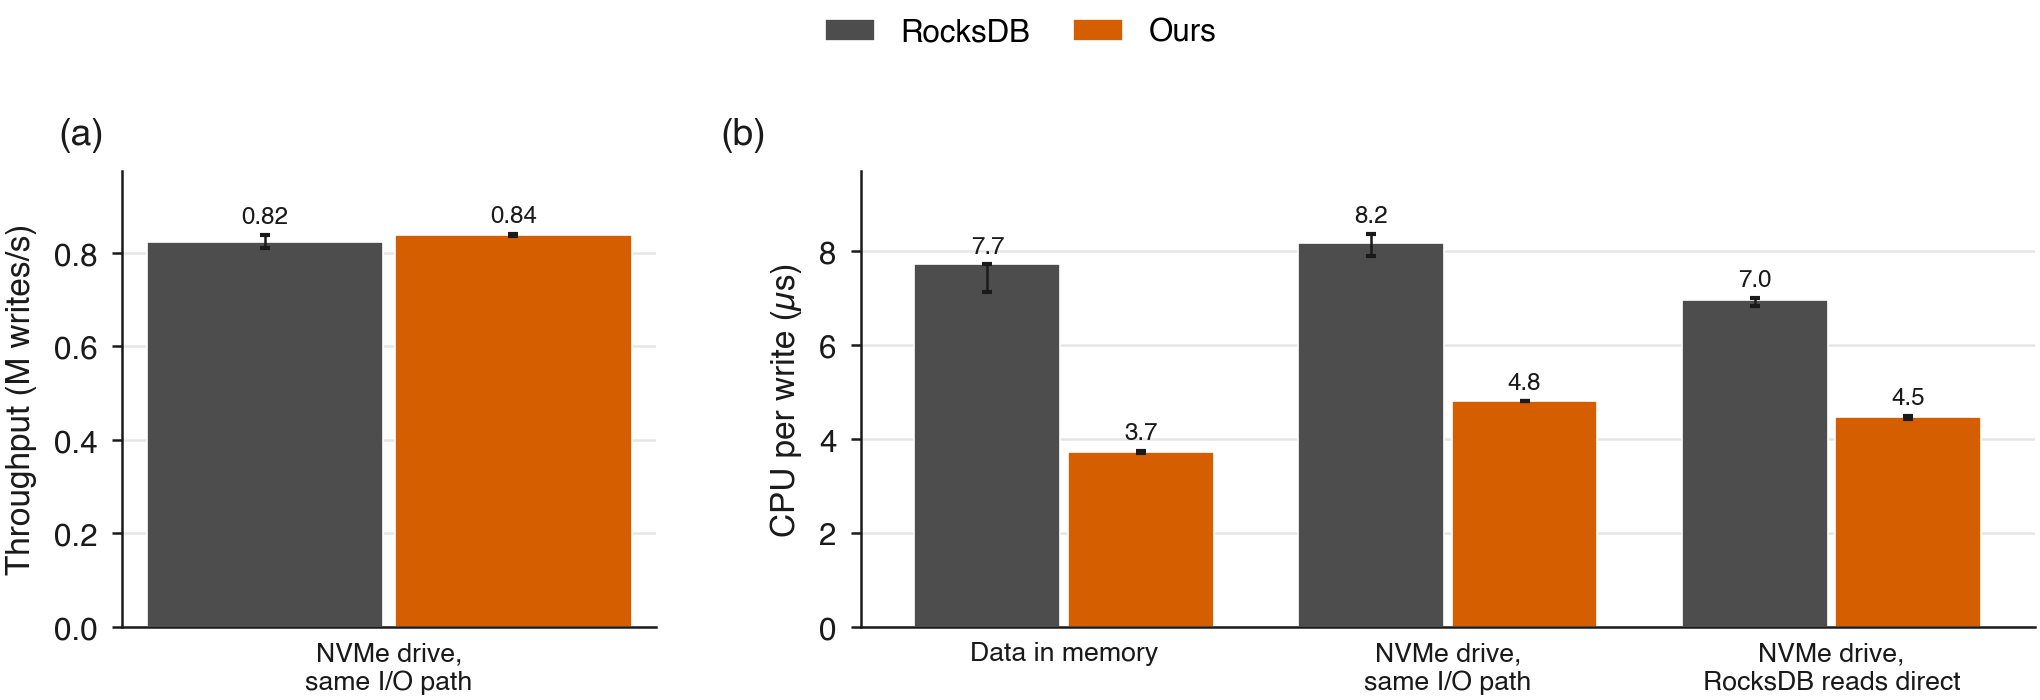
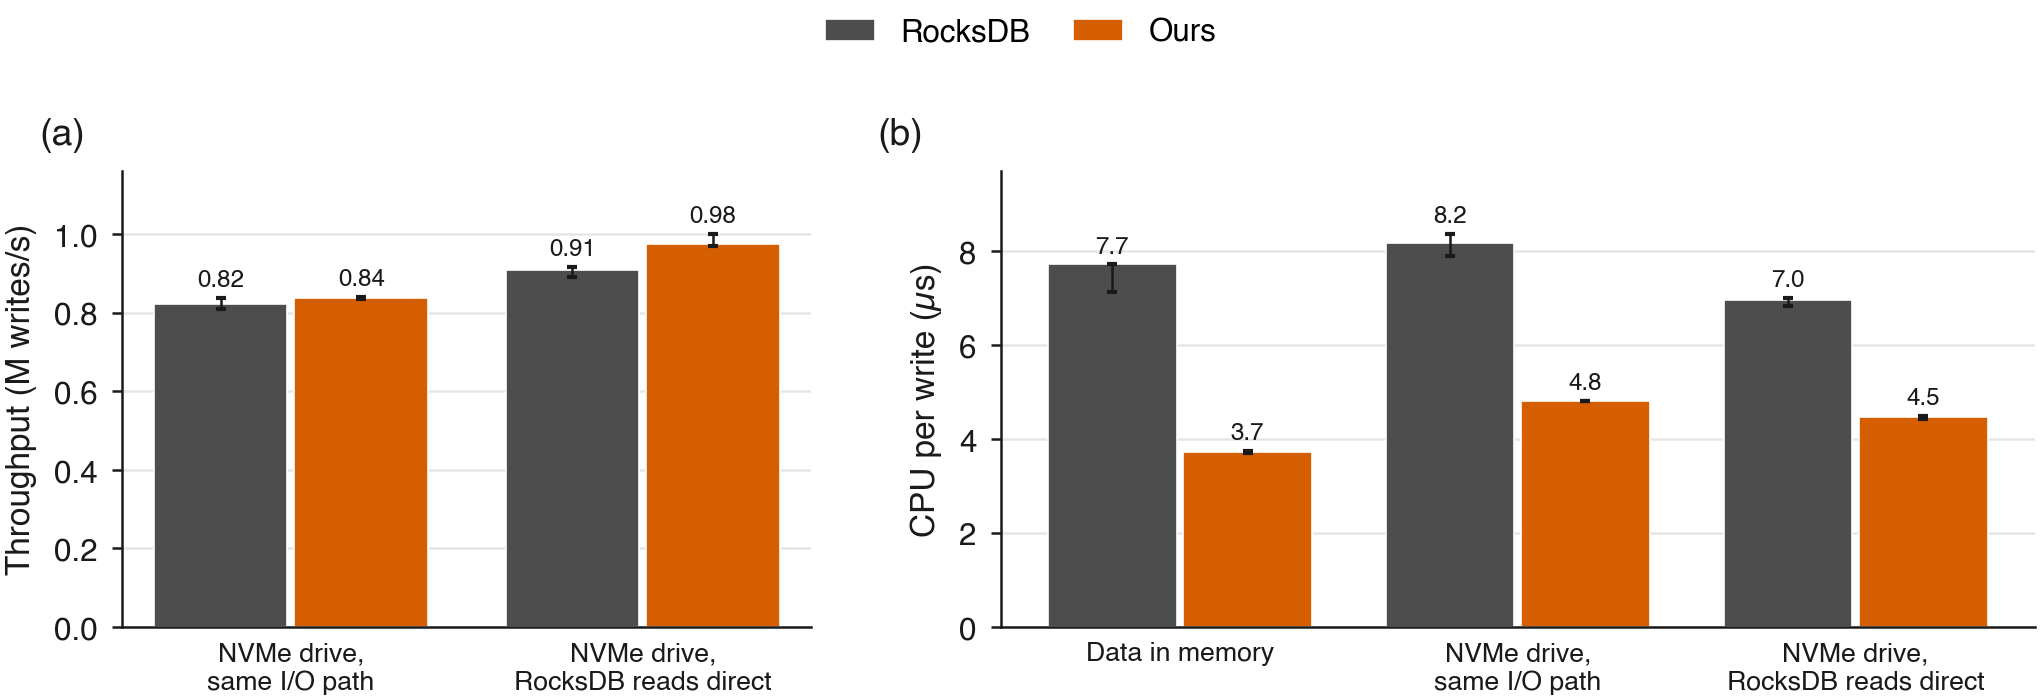
fig25: throughput panel shows both NVMe runs, without data in memory

diff --git a/publication/make_figures_v3.py b/publication/make_figures_v3.py
@@ -337,12 +337,12 @@ def figure_nvme():
             entry["ops"].append(result["throughput"]["ops_per_second"] / 1e6)
             entry["cpu"].append(result["process_cpu"]["cpu_microseconds_per_op"])
         for metric in groups:
-            if metric == "ops" and name != "followup/n6":
+            if metric == "ops" and name == "followup/n1":
                 continue
             groups[metric].append((label, {d: bootstrap_ci(v[metric]) for d, v in runs.items()}))
     if not groups["ops"]:
         return
-    fig, axes = plt.subplots(1, 2, figsize=(DOUBLE_COLUMN, 2.5), gridspec_kw={"width_ratios": [1, 2.2]})
+    fig, axes = plt.subplots(1, 2, figsize=(DOUBLE_COLUMN, 2.5), gridspec_kw={"width_ratios": [2, 3]})
     for ax, letter, (metric, ylabel, fmt) in zip(axes, "ab", [("ops", "Throughput (M writes/s)", lambda v: f"{v:.2f}"),
                                                             ("cpu", "CPU per write (µs)", lambda v: f"{v:.1f}")]):
         grouped_bars(ax, groups[metric], (NATIVE, FULL), None, fmt, size=5.8)
